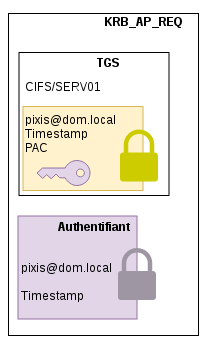
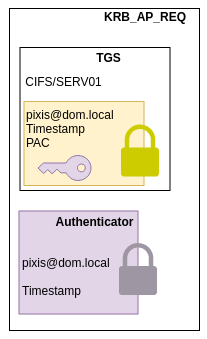
English diagrams & fix typos

Changed region(s): [[0.029, 0.0295, 0.9855, 1.0], [0.087, 0.118, 0.8406, 0.5605]]

diff --git a/_drafts/2019-02-02-kerberos.md b/_drafts/2019-02-02-kerberos.md
@@ -27,7 +27,7 @@ Kerberos is a protocol that allows users to authenticate on the network, and acc
 
 ## How it works
 
-Kerberos permet aux utilisateurs d'utiliser un service sur le réseau sans envoyer son mot de passe, et sans que le serveur ait besoin de connaitre les mots de passe de tout le monde. C'est une authentification centralisée.
+Kerberos is mainly used when an account wants to use services on the network, without prompting the user to re-enter credentials whenever a service requires authentication.
 
 In order to do this, at least three entities are required
 
@@ -35,7 +35,7 @@ In order to do this, at least three entities are required
 - A **service**
 - A **Key Distribution Center** (KDC) which is a **Domain Controller** (DC) in Active Directory environment.
 
-[! [Entities Active Directory](/assets/uploads/2018/05/entities.png)](/assets/uploads/2018/05/entities.png)
+[![Entities Active Directory](/assets/uploads/2018/05/entities.png)](/assets/uploads/2018/05/entities.png)
 
 
 The idea is that when a client wants to access a service, no password will be sent over the network, thus avoiding password leaks that could compromise the network. 
@@ -58,7 +58,7 @@ All right, but how does it work in practice?
 
 We are in Active Directory context, so the KDC is also the Domain Controller (DC). The KDC contains all the domain nformation, including the secrets of each service, machine, user. Thus, except for the DC, everyone only know his own secret, and therefore do not know the secrets of the other objects in Active Directory.
 
-[! [DC with keys](/assets/uploads/2018/05/keys.png)
+[![DC with keys](/assets/uploads/2018/05/keys.png)](/assets/uploads/2018/05/keys.png)
 
 Let's take `pixis` user as an example. He wants to use a given service. To do so, he will need to authenticate himself to the KDC and he will then send a request to use the service. This phase is called **Authentication Service** (AS).
 
@@ -68,7 +68,7 @@ Let's take `pixis` user as an example. He wants to use a given service. To do so
 
 `pixis` will first send a request for a **Ticket Granting Ticket** (TGT) to the Domain Controller (DC). This request is called **KRB_AS_REQ** (*Kerberos Authentication Service Request*). The TGT requested by the client is a piece of encrypted information containing, among other things, a session key and user information (ID, name, groups, ...).
 
-In order to perform this TGT request, `pixis` will send its name to the KDC as well as the exact time of the request, encrypted with a hashed version of his password.
+In order to perform this TGT request, `pixis` will send its name to the KDC as well as the exact request's time, encrypted with a hashed version of his password.
 
 [![Kerberos AS REQ](/assets/uploads/2018/05/asreq.png)](/assets/uploads/2018/05/asreq.png)
 
@@ -93,11 +93,11 @@ The KDC will send back different things to `pixis' (**KRB_AS_REP**).
     + Generated session key
     + The **Privilege Attribute Certificate** (PAC) which contains a lot of specific information about the user, including his identifier (SID) and all the groups he is member of.
   
-  TGT will be encrypted with the KDC key. Thus, **only the KDC is able to decipher and read the content of this ticket**.
+  TGT will be encrypted with the KDC key. Thus, **only the KDC is able to decipher and read this ticket's content**.
 
 [![KDC response](/assets/uploads/2018/05/asrep.png)](/assets/uploads/2018/05/asrep.png)
 
-*Note that this TGT is considered public information. It can very well be intercepted during the authentication phase. We will see in the following paragraph the importance of the authenticator that accompanies the TGT when the client communicates with the KDC.*
+*Note that this TGT is considered public information. It can very well be intercepted during the authentication phase. We will see in the following paragraph the importance of the **authenticator** that accompanies the TGT when the client communicates with the KDC.*
 
 The client receives these pieces of information. Using his hashed password, the first part will be decrypted in order to retrieve the session key that will be necessary for further exchanges.
 
@@ -117,7 +117,7 @@ If `pixis` wants to use a service, e.g. `CIFS` on `SERVER01`, it will send sever
 
 [![Service Request](/assets/uploads/2018/05/tgsreq.png)](/assets/uploads/2018/05/tgsreq.png)
 
-The **authenticator** is sent to make sure that it is `pixis` that is making the request. To do this, the KDC will compare TGT and **authenticator** contents. Since only the KDC can read TGT content, it could not have been tampered with. The KDC will read THT content, including the owner of the TGT and the associated session key. Then it will decrypt **authenticator** content with the same session key. If the decryption works, and the data in the **authenticator** matches the data in the TGT, then `pixis` is who it claims to be. The KDC is assured that whoever made the request has the TGT **and** knowledge of the negotiated session key.
+The **authenticator** is sent to make sure that it is `pixis` that is making the request. To do this, the KDC will compare TGT and **authenticator** contents. Since only the KDC can read TGT content, it could not have been tampered with. The KDC will read TGT content, including the TGT's owner and the associated session key. Then it will decrypt **authenticator** content with the same session key. If the decryption works, and the data in the **authenticator** matches the data in the TGT, then `pixis` is who it claims to be. The KDC is assured that whoever made the request has the TGT **and** knowledge of the negotiated session key.
 
 Here is a diagram which summarizes this verification process at KDC level:
 
@@ -134,7 +134,7 @@ These two pieces of information (the ticket and the session key) are encrypted w
 
 [![Service Ticket](/assets/uploads/2018/05/tgsrep.png)](/assets/uploads/2018/05/tgsrep.png)
 
-The client will receive this message, and will be able to decrypt the first layer to get the session key created for communication with the service, as well as the ticket generated to use of this service. This ticket is commonly called **Ticket-Granting-Service** (TGS).
+The client will receive this message, and will be able to decrypt the first layer to get the session key created for communication with the service, as well as the ticket generated to use this service. This ticket is commonly called **Ticket-Granting-Service** (TGS).
 
 [![Client decrypts KRB_TGS_REP](/assets/uploads/2018/05/decodeservice.png)](/assets/uploads/2018/05/decodeservice.png)
 
